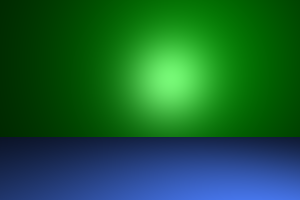
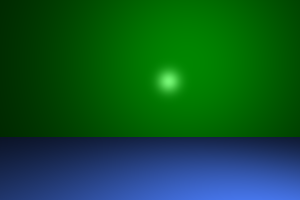
one shot one kill, no luck all skill

Changed region(s): [[0.39, 0.12, 0.75, 0.69]]

diff --git a/hw3.py b/hw3.py
@@ -26,13 +26,19 @@ EPSILON = 1e-5
 def get_color(ray, lights:LightSource, objects, ambient, level, max_level):
     color = np.zeros(3)
     nearest_object, min_distance = ray.nearest_intersected_object(objects)
-    intersection_point = calcIntersectPoint(ray,min_distance)
-    direction = -lights[0].direction if hasattr(lights[0], "direction") else normalize(lights[0].position - intersection_point) 
-    intersection_point = intersection_point + EPSILON * normalize(nearest_object.getOutwardFacingNormal(direction))
     if not nearest_object:
         return color
+    is_Sphere = isinstance(nearest_object, Sphere)
+    intersection_point = calcIntersectPoint(ray,min_distance)
+    direction = -lights[0].direction if hasattr(lights[0], "direction") else normalize(lights[0].position - intersection_point)
+    if is_Sphere:
+        outwardFacingNormal = normalize(nearest_object.getOutwardFacingNormal(direction, intersection_point))
+    else:
+        outwardFacingNormal = normalize(nearest_object.getOutwardFacingNormal(direction))
+    intersection_point = intersection_point + EPSILON * outwardFacingNormal
+    
     color += calc_emmited_color()
-    color += calcAmbientColor(nearest_object, ambient)      
+    color += calcAmbientColor(nearest_object, ambient) 
     for light in lights:
         ray_to_light = light.get_light_ray(intersection_point)
         _, min_distance_object_from_light = ray_to_light.nearest_intersected_object(objects)
@@ -41,30 +47,36 @@ def get_color(ray, lights:LightSource, objects, ambient, level, max_level):
 
         if min_distance_object_from_light < light_distance and min_distance_object_from_light > 0.0001:
             return color
-        color += calc_diffuse_color(nearest_object, light, intersection_point)
-        color += calc_specular_color(ray, nearest_object, light, intersection_point)
+        color += calc_diffuse_color(nearest_object, light, intersection_point, is_Sphere)
+        color += calc_specular_color(ray, nearest_object, light, intersection_point, is_Sphere)
 
-    current_level = level + 1
-    if current_level > max_level:
-        return color
+        current_level = level + 1
+        if current_level > max_level:
+            return color
 
-    reflected_vector = reflected(normalize(light.get_light_ray(intersection_point).direction), nearest_object.normal)
-    reflactive_ray = Ray(intersection_point, reflected_vector)
-    color += np.multiply(nearest_object.reflection, get_color(reflactive_ray, lights, objects, ambient, current_level, max_level))
+        reflected_vector = reflected(normalize(ray.direction), outwardFacingNormal)
+        reflactive_ray = Ray(intersection_point, reflected_vector)
+        color += np.multiply(nearest_object.reflection, get_color(reflactive_ray, lights, objects, ambient, current_level, max_level))
     
     return color
 
-def calc_specular_color(ray:Ray, nearest_object:Object3D, light:LightSource, intersection_point):
+def calc_specular_color(ray:Ray, nearest_object:Object3D, light:LightSource, intersection_point, is_Sphere=False):
     to_light_vector = normalize(light.get_light_ray(intersection_point).direction)
-    reflected_vector = (reflected(to_light_vector,  nearest_object.normal)) 
+    if is_Sphere:
+        reflected_vector = (reflected(to_light_vector,  nearest_object.getOutwardFacingNormal(to_light_vector, -to_light_vector))) 
+    else:
+        reflected_vector = (reflected(to_light_vector,  nearest_object.getOutwardFacingNormal(to_light_vector))) 
     v = normalize(ray.direction)
     inner = np.inner(v, reflected_vector)
     inner = np.power(inner, nearest_object.shininess)
     return nearest_object.specular * light.get_intensity(intersection_point) * inner
 
-def calc_diffuse_color(nearest_object:Object3D, light:LightSource, intersection_point):
+def calc_diffuse_color(nearest_object:Object3D, light:LightSource, intersection_point, is_Sphere=False):
     norm_light_to_point_vector = normalize(-light.get_light_ray(intersection_point).direction)
-    inner = np.inner(nearest_object.getOutwardFacingNormal(-norm_light_to_point_vector), norm_light_to_point_vector)
+    if is_Sphere:
+        inner = np.inner(nearest_object.getOutwardFacingNormal(-norm_light_to_point_vector, intersection_point), norm_light_to_point_vector)
+    else:
+        inner = np.inner(nearest_object.getOutwardFacingNormal(-norm_light_to_point_vector), norm_light_to_point_vector)
 
     return nearest_object.diffuse * light.get_intensity(intersection_point) * inner
 

diff --git a/helper_classes.py b/helper_classes.py
@@ -87,9 +87,12 @@ class PointLight(LightSource):
 class SpotLight(LightSource):
 
 
-    def __init__(self, intensity):
+    def __init__(self, intensity, position, kc, kl, kq):
         super().__init__(intensity)
-        # TODO
+        self.position = np.array(position)
+        self.kc = kc
+        self.kl = kl
+        self.kq = kq
 
     # This function returns the ray that goes from the light source to a point
     def get_light_ray(self,intersection):
@@ -155,7 +158,7 @@ class Plane(Object3D):
         else:
             return None
     
-    def getOutwardFacingNormal(self, direction):
+    def getOutwardFacingNormal(self, direction, intersectPoint=None):
         norm = self.normal
         point = self.point
         x,y,z = direction + point
@@ -181,7 +184,7 @@ class Triangle(Object3D):
         v2 = self.b - self.a
         return normalize(np.cross(v1, v2))
     
-    def getOutwardFacingNormal(self, direction):
+    def getOutwardFacingNormal(self, direction, intersectPoint=None):
         norm = self.normal
         point = self.a
         x,y,z = direction + point
@@ -249,8 +252,26 @@ class Sphere(Object3D):
         self.radius = radius
 
     def intersect(self, ray: Ray):
-        #TODO
-        pass
+        a = np.linalg.norm(ray.direction) ** 2
+        b = 2 * np.dot(ray.direction, ray.origin - self.center)
+        c = np.linalg.norm(ray.origin - self.center) ** 2 - self.radius ** 2
+        delta = b ** 2 - 4 * a * c
+        if delta <= 0:
+            return None
+        t1 = (-b + np.sqrt(delta)) / (2 * a)
+        t2 = (-b - np.sqrt(delta)) / (2 * a)
+        if t1 > 0 and t2 > 0:
+            return min(t1, t2)
+        return None
+    
+    def getNormal(self, intersectPoint):
+        norm = normalize(intersectPoint - self.center)
+        return norm
+
+    def getOutwardFacingNormal(self, direction, intersectPoint):
+        norm = normalize(intersectPoint - self.center)
+        plane = Plane(norm, intersectPoint)
+        return plane.getOutwardFacingNormal(direction)
 
 
 class Mesh(Object3D):
